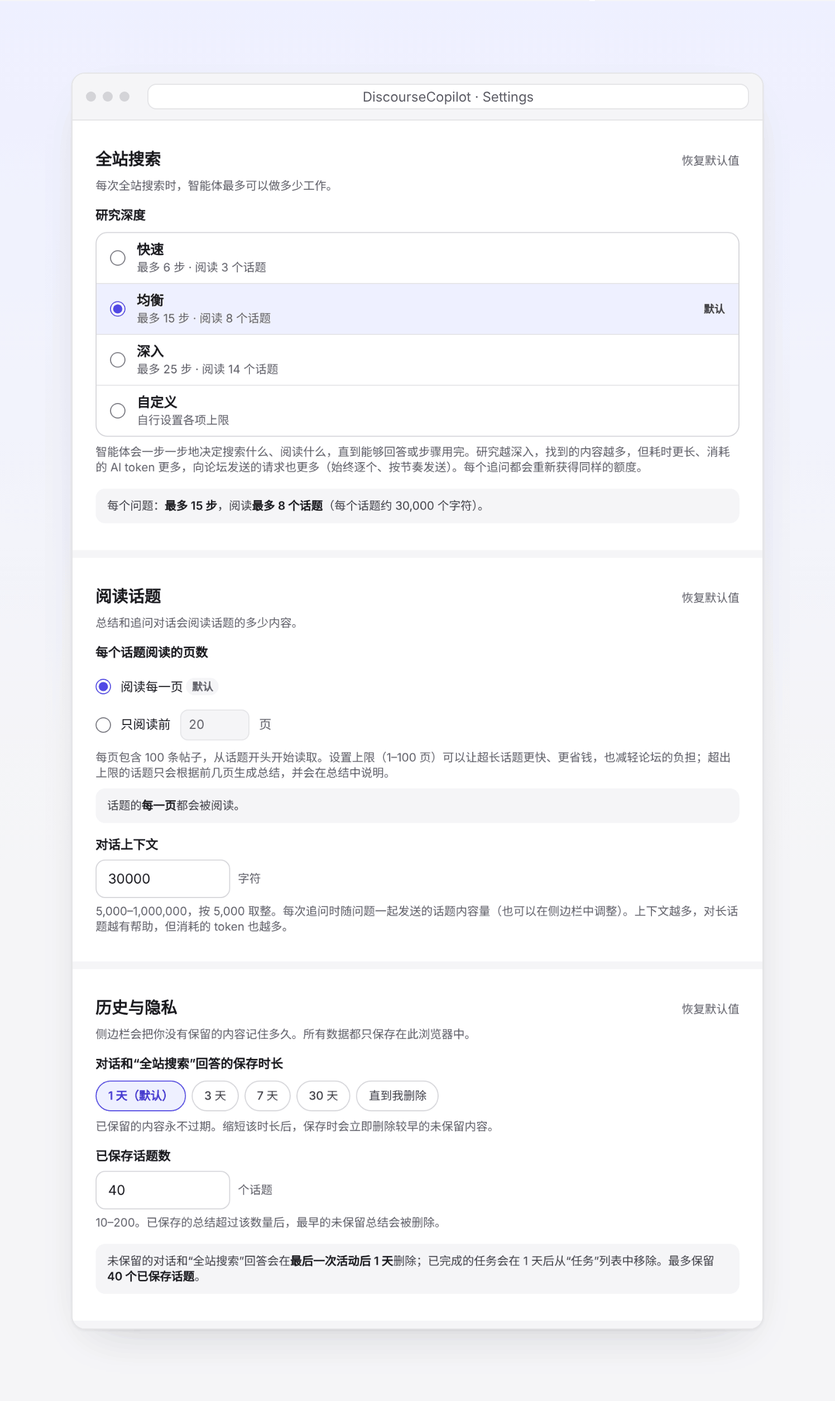
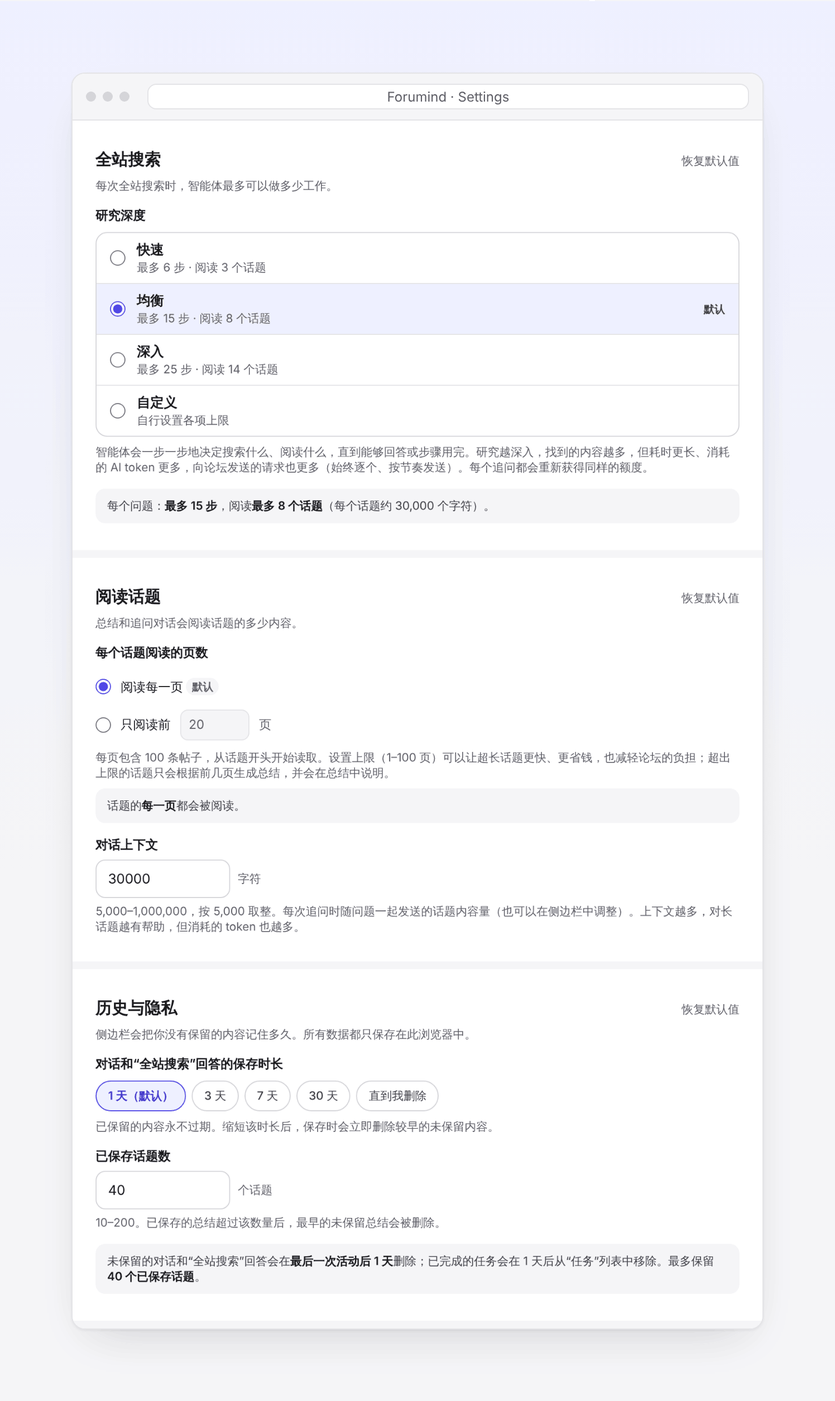
Rename to Forumind in the docs and READMEs
Works-with now lists Discourse, WordPress and Reddit; the READMEs say
formerly DiscourseCopilot; the release zip is forumind-<version>.zip.

diff --git a/README.md b/README.md
@@ -1,16 +1,18 @@
 <h1 align="center">
   <picture>
-    <source media="(prefers-color-scheme: dark)" srcset="assets/brand/wordmark/discoursecopilot-wordmark-horizontal-on-dark.svg">
-    <img src="assets/brand/wordmark/discoursecopilot-wordmark-horizontal-on-light.svg" alt="DiscourseCopilot" width="440">
+    <source media="(prefers-color-scheme: dark)" srcset="assets/brand/wordmark/forumind-wordmark-horizontal-on-dark.svg">
+    <img src="assets/brand/wordmark/forumind-wordmark-horizontal-on-light.svg" alt="Forumind" width="440">
   </picture>
 </h1>
 
-<h3 align="center">Catch up on any Discourse forum in seconds.</h3>
+<h3 align="center">Your AI assistant for the comment section</h3>
+
+<p align="center"><i>Forumind (formerly DiscourseCopilot)</i></p>
 
 <p align="center"><b>English</b> · <a href="README.zh-CN.md">简体中文</a> · <a href="README.zh-TW.md">繁體中文</a></p>
 
 <p align="center">
-  Summarize long topics, ask follow-up questions, and let AI search the whole forum for you, with links to the posts it used.
+  Summarize long discussions, ask follow-up questions, and let AI search the whole forum for you, with links to the posts it used. Works on Discourse forums, WordPress blog comments and Reddit threads.
 </p>
 
 <p align="center">
@@ -30,20 +32,30 @@
 
 <p align="center">
   <a href="https://github.com/kccarlos/DiscourseCopilot"><b>⭐ Star on GitHub</b></a>
-  to follow new releases. It is free, and it helps other forum readers find DiscourseCopilot.
+  to follow new releases. It is free, and it helps other forum readers find Forumind.
 </p>
 
-![DiscourseCopilot in action: summarizing a Discourse topic, asking a follow-up, and asking the whole forum for an answer with sources](docs/screenshots/demo.gif)
+![Forumind in action: summarizing a Discourse topic, asking a follow-up, and asking the whole forum for an answer with sources](docs/screenshots/demo.gif)
 
-DiscourseCopilot is a free, open-source Chrome extension. It opens in your browser's side panel next to a forum built on Discourse and reads it with your own login. You bring your own AI (a provider's API key, or a model on your own computer), and **it has no servers, accounts, or analytics of its own**.
+Forumind is a free, open-source Chrome extension. It opens in your browser's side panel next to a forum built on Discourse, a WordPress site (like Doctor of Credit) or a Reddit post and reads it with your own login. You bring your own AI (a provider's API key, or a model on your own computer), and **it has no servers, accounts, or analytics of its own**.
 
 ## Works with
+
+### Discourse forums
 
 Any forum built on [Discourse](https://www.discourse.org), on any domain, including private and login-only communities. Some well-known Discourse forums it works with:
 
 [Discourse Meta](https://meta.discourse.org), [OpenAI Developer Community](https://community.openai.com), [Cursor Forum](https://forum.cursor.com), [Hugging Face Forums](https://discuss.huggingface.co), [PyTorch Forums](https://discuss.pytorch.org), [Python Discourse](https://discuss.python.org), [Rust Users Forum](https://users.rust-lang.org), [Swift Forums](https://forums.swift.org), [Julia Discourse](https://discourse.julialang.org), [Obsidian Forum](https://forum.obsidian.md), [Home Assistant Community](https://community.home-assistant.io), [Docker Community Forums](https://forums.docker.com), [Let's Encrypt Community](https://community.letsencrypt.org), [freeCodeCamp Forum](https://forum.freecodecamp.org), [Godot Forum](https://forum.godotengine.org), [Unity Discussions](https://discussions.unity.com), [Elastic Discuss](https://discuss.elastic.co), [n8n Community](https://community.n8n.io), [Fly.io Community](https://community.fly.io), [Level1Techs Forums](https://forum.level1techs.com), [Ethereum Research](https://ethresear.ch), [US Card Forum (美卡论坛)](https://www.uscardforum.com), [LINUX DO](https://linux.do), and thousands more.
 
-Not sure whether a forum runs Discourse? Open it and click the DiscourseCopilot icon: the side panel tells you. These forums are listed only as examples; DiscourseCopilot is not affiliated with them. Each forum's own rules still apply, and a forum with strict bot checks can block some requests (see the [FAQ](docs/faq.md#does-it-work-on-every-discourse-forum-including-ones-where-i-have-to-log-in)).
+### WordPress sites
+
+WordPress sites that use WordPress's native comments and leave the public REST API open. Verified working: [Doctor of Credit](https://www.doctorofcredit.com), [美卡指南 US Credit Card Guide](https://www.uscreditcardguide.com), [Frequent Miler](https://frequentmiler.com), [View from the Wing](https://viewfromthewing.com), [One Mile at a Time](https://onemileatatime.com), [Miles to Memories](https://milestomemories.com), [9to5Mac](https://9to5mac.com). Sites whose comments come from a third-party system (Disqus and the like) or that close their REST API, such as The Points Guy or TechCrunch, aren't supported.
+
+### Reddit
+
+Reddit posts with all their comments, while you're signed in to Reddit. Ask the forum searches within a subreddit.
+
+Not sure whether a site is supported? Open it and click the Forumind icon: the side panel tells you. The sites above are listed only as examples; Forumind is not affiliated with them. Each forum's own rules still apply, and a forum with strict bot checks can block some requests (see the [FAQ](docs/faq.md#does-it-work-on-every-discourse-forum-including-ones-where-i-have-to-log-in)).
 
 ## Why you'll like it
 
@@ -100,19 +112,19 @@ Not sure whether a forum runs Discourse? Open it and click the DiscourseCopilot 
 ## Get started in 3 steps
 
 **1. Install the extension.**
-Open [DiscourseCopilot in the Chrome Web Store](https://chromewebstore.google.com/detail/discoursecopilot/dpngnaiiofobfjleabbhnfmdflddnhac) and click **Add to Chrome**, or [Edge Add-ons](https://microsoftedge.microsoft.com/addons/detail/cjbpgigbkfdcgdmlpifklpoklpnbkhmp) in Microsoft Edge. Pin **DiscourseCopilot** from the puzzle-piece icon in the toolbar. (Store versions arrive after review; for the newest one right away, [install from GitHub](docs/guide.md#install-the-newest-version-from-github).)
+Open [Forumind in the Chrome Web Store](https://chromewebstore.google.com/detail/discoursecopilot/dpngnaiiofobfjleabbhnfmdflddnhac) and click **Add to Chrome**, or [Edge Add-ons](https://microsoftedge.microsoft.com/addons/detail/cjbpgigbkfdcgdmlpifklpoklpnbkhmp) in Microsoft Edge. Pin **Forumind** from the puzzle-piece icon in the toolbar. (Store versions arrive after review; for the newest one right away, [install from GitHub](docs/guide.md#install-the-newest-version-from-github).)
 
 **2. Connect an AI provider.**
-Click the DiscourseCopilot icon to open the side panel, pick a provider, paste your API key, and click **Test & save**; a fast, low-cost model is picked for you. **No API key?** [Google AI Studio](https://aistudio.google.com/apikey) gives you a free Gemini key in a minute. See [Choosing an AI provider](docs/guide.md#choosing-an-ai-provider).
+Click the Forumind icon to open the side panel, pick a provider, paste your API key, and click **Test & save**; a fast, low-cost model is picked for you. **No API key?** [Google AI Studio](https://aistudio.google.com/apikey) gives you a free Gemini key in a minute. See [Choosing an AI provider](docs/guide.md#choosing-an-ai-provider).
 
 **3. Open a forum topic, allow access, then Create summary.**
-Open any Discourse topic (log in first if the forum needs it) and click the DiscourseCopilot icon. The first time, click **Allow access** and choose **Allow** when Chrome asks; each forum asks only once. Then click **Create summary**, and ask follow-ups in the box at the bottom.
+Open any Discourse topic (log in first if the forum needs it) and click the Forumind icon. The first time, click **Allow access** and choose **Allow** when Chrome asks; each forum asks only once. Then click **Create summary**, and ask follow-ups in the box at the bottom.
 
-<img src="docs/screenshots/feature-allow-access.png" alt="The side panel asking to allow DiscourseCopilot on a forum, with three short steps and an Allow access button" width="420">
+<img src="docs/screenshots/feature-allow-access.png" alt="The side panel asking to allow Forumind on a forum, with three short steps and an Allow access button" width="420">
 
 ## Privacy first
 
-- **No analytics, no tracking, no accounts, no DiscourseCopilot servers.** Nothing is sent to the developer, because there is nowhere to send it.
+- **No analytics, no tracking, no accounts, no Forumind servers.** Nothing is sent to the developer, because there is nowhere to send it.
 - **Your data stays in your browser.** Settings, API keys, and your saved summaries, chats, and answers are stored on your computer only.
 - **Only two kinds of network calls:** the forums you allow (one forum at a time, with your login there), and the AI provider you choose, with your own key. **With a local model (Ollama or LM Studio), nothing leaves your computer.**
 
@@ -134,4 +146,4 @@ The details are in [Privacy in plain words](docs/guide.md#privacy-in-plain-words
 
 Apache License 2.0. See [LICENSE](LICENSE). Made by [kccarlos](https://github.com/kccarlos).
 
-If DiscourseCopilot saves you time, a [⭐ star on GitHub](https://github.com/kccarlos/DiscourseCopilot) is a friendly way to say thanks. It helps other forum readers find the extension.
+If Forumind saves you time, a [⭐ star on GitHub](https://github.com/kccarlos/DiscourseCopilot) is a friendly way to say thanks. It helps other forum readers find the extension.

diff --git a/docs/faq.md b/docs/faq.md
@@ -1,35 +1,35 @@
-# DiscourseCopilot FAQ
+# Forumind FAQ
 
 **English** · [简体中文](zh-CN/faq.md) · [繁體中文](zh-TW/faq.md)
 
 Back to the [README](../README.md) · How everything works: the [guide](guide.md).
 
 ### Does it work on every Discourse forum, including ones where I have to log in?
-It works on Discourse forums in general, but a forum's own settings still apply. DiscourseCopilot reads a forum the same way your browser does, using your login, so if you're logged in it can read what you can read. Some forums restrict search or reading for certain users, limit how fast they can be read, or show a check that automated requests can't pass; there, a summary or answer can be incomplete or fail. If the forum asks you to log in or pass a check, do that on the forum in a normal tab. For **Ask the forum**, the search pauses and waits: click **Continue** when you're done. For a summary, just click **Create summary** again.
+It works on Discourse forums in general, but a forum's own settings still apply. Forumind reads a forum the same way your browser does, using your login, so if you're logged in it can read what you can read. Some forums restrict search or reading for certain users, limit how fast they can be read, or show a check that automated requests can't pass; there, a summary or answer can be incomplete or fail. If the forum asks you to log in or pass a check, do that on the forum in a normal tab. For **Ask the forum**, the search pauses and waits: click **Continue** when you're done. For a summary, just click **Create summary** again.
 
 ### Why does it ask for permission per forum?
-Discourse forums live on thousands of different websites, so DiscourseCopilot can't know them in advance. Instead of asking to "read and change all your data on all websites" when you install it, it asks for one forum at a time, the first time you use that forum. That access lets it read topics and search the forum in the background (even after you switch tabs) using your login there. You can see and remove every forum you allowed in **Settings → Forum access**; removing access doesn't delete your saved summaries or answers.
+Discourse forums live on thousands of different websites, so Forumind can't know them in advance. Instead of asking to "read and change all your data on all websites" when you install it, it asks for one forum at a time, the first time you use that forum. That access lets it read topics and search the forum in the background (even after you switch tabs) using your login there. You can see and remove every forum you allowed in **Settings → Forum access**; removing access doesn't delete your saved summaries or answers.
 
 ### The side panel says "Page not checked yet".
-Chrome only lets DiscourseCopilot see forums you've allowed or pages where you clicked its icon. Click the DiscourseCopilot icon in the toolbar and the side panel checks the page. If it's a Discourse forum, you'll see **Allow DiscourseCopilot on *forum name***: click **Allow access** and choose **Allow** in Chrome's prompt. Tip: pin DiscourseCopilot from the puzzle-piece menu so the icon is always there.
+Chrome only lets Forumind see forums you've allowed or pages where you clicked its icon. Click the Forumind icon in the toolbar and the side panel checks the page. If it's a Discourse forum, you'll see **Allow Forumind on *forum name***: click **Allow access** and choose **Allow** in Chrome's prompt. Tip: pin Forumind from the puzzle-piece menu so the icon is always there.
 
 ### I updated from an older version and the forum asks again.
 Version 2.1 switched from access to every website to access per forum, so forums you used before need one click on **Allow access**. Your saved summaries and answers are still there.
 
 ### I see a "rate limit" message. What now?
-There are two kinds. If the *forum* asks DiscourseCopilot to slow down, the side panel shows "Forum asked us to slow down" and tries again on its own after a short wait, so you don't need to do anything. If your *AI provider* is limiting you, wait a minute and try again, and check your plan and usage with your provider. If a free tier keeps hitting its limit, switch to another model in the question box at the bottom of the side panel (save a few in **Settings → Favorite models**).
+There are two kinds. If the *forum* asks Forumind to slow down, the side panel shows "Forum asked us to slow down" and tries again on its own after a short wait, so you don't need to do anything. If your *AI provider* is limiting you, wait a minute and try again, and check your plan and usage with your provider. If a free tier keeps hitting its limit, switch to another model in the question box at the bottom of the side panel (save a few in **Settings → Favorite models**).
 
 ### "Ask the forum" is greyed out, or the side panel doesn't recognize the forum.
-Click the DiscourseCopilot icon in the toolbar while the forum is open, and click **Allow access** if the side panel asks (then choose **Allow** in Chrome's prompt). Also make sure you're on a Discourse forum (many say "Powered by Discourse" at the bottom). If you allowed access from the **Is this a Discourse forum?** card on a site that isn't one, remove it in **Settings → Forum access**.
+Click the Forumind icon in the toolbar while the forum is open, and click **Allow access** if the side panel asks (then choose **Allow** in Chrome's prompt). Also make sure you're on a Discourse forum (many say "Powered by Discourse" at the bottom). If you allowed access from the **Is this a Discourse forum?** card on a site that isn't one, remove it in **Settings → Forum access**.
 
 ### My summary says "Page limit reached" or "first 1,999 of 2,430 replies".
 You've set a limit on **Pages read per topic**, so a longer topic is summarized from its first pages. To include more, choose **Read every page** (or a higher limit) in Settings, then click **Check for new replies**. It will take longer and cost a bit more. By default there is no limit. On the rare forum that doesn't report a topic's length, reading stops after 100 pages (10,000 posts) as a safety net.
 
-### How do I hide the DiscourseCopilot button on forum pages?
-Open Settings, scroll to **Forum access**, and turn off **Show the DiscourseCopilot button on forum pages**, then click **Save Settings**. The button goes away on open forum tabs right away. The toolbar icon still opens the side panel.
+### How do I hide the Forumind button on forum pages?
+Open Settings, scroll to **Forum access**, and turn off **Show the Forumind button on forum pages**, then click **Save Settings**. The button goes away on open forum tabs right away. The toolbar icon still opens the side panel.
 
 ### Ollama says "refused the connection (403)".
-DiscourseCopilot removes the `Origin` header from its own requests to `localhost`, `127.0.0.1` and any local server address you allowed, which is what lets a default Ollama install accept it. Web pages are not affected, so Ollama still refuses them. If you still see a 403, update Ollama and reload the extension; as a fallback, start Ollama with `OLLAMA_ORIGINS=chrome-extension://*`.
+Forumind removes the `Origin` header from its own requests to `localhost`, `127.0.0.1` and any local server address you allowed, which is what lets a default Ollama install accept it. Web pages are not affected, so Ollama still refuses them. If you still see a 403, update Ollama and reload the extension; as a fallback, start Ollama with `OLLAMA_ORIGINS=chrome-extension://*`.
 
 ### What gets sent, and to whom?
 Only the forum content needed for your request and your question, sent to the AI provider you set up (or to your local model server). Nothing is sent to us. The forum sees requests for its topic and search data, made from your browser with your login, the same kind your browser makes when you read it, so forum admins may see them in their logs. See [Privacy in plain words](guide.md#privacy-in-plain-words) and the [privacy policy](../PRIVACY.md).

diff --git a/PRIVACY.md b/PRIVACY.md
@@ -1,18 +1,18 @@
-# Privacy Policy for DiscourseCopilot
+# Privacy Policy for Forumind
 
 **Last Updated:** October 3, 2026
 
 ## Overview
 
-DiscourseCopilot is a browser extension that summarizes and answers questions about discussions on Discourse forums you visit, using an AI provider you configure. It is made for Discourse forums (for example community.openai.com or meta.discourse.org). This policy explains what data the extension handles and where it goes.
+Forumind is a browser extension that summarizes and answers questions about discussions on Discourse forums you visit, using an AI provider you configure. It is made for Discourse forums (for example community.openai.com or meta.discourse.org). This policy explains what data the extension handles and where it goes.
 
 ## Permissions and site access
 
 Discourse forums are hosted on arbitrary domains, so the extension cannot list them in advance. Instead of asking for access to all websites, it asks for access **one forum at a time**, when you choose **Allow access** in the side panel. Chrome shows its own prompt, and nothing is read from a forum before you allow it.
 
-- **Forums you enable** (optional host permission, per forum): the extension reads topics and search results from that forum, using your existing browser session there (so login-required forums work when you are logged in). A small content script runs on that forum's pages to detect the topic you are viewing and show the in-page DiscourseCopilot button. You can see and remove every enabled forum under **Settings → Forum access**; removing access keeps your saved summaries and answers.
+- **Forums you enable** (optional host permission, per forum): the extension reads topics and search results from that forum, using your existing browser session there (so login-required forums work when you are logged in). A small content script runs on that forum's pages to detect the topic you are viewing and show the in-page Forumind button. You can see and remove every enabled forum under **Settings → Forum access**; removing access keeps your saved summaries and answers.
 - **AI provider hosts** (requested at install): the API addresses of the supported providers (OpenRouter, OpenAI, Anthropic, Groq, Google Gemini, xAI, DeepSeek) and `localhost` / `127.0.0.1` for Ollama and LM Studio. They are used only to send your requests to the provider you configured, and to read that provider's list of available models. A local model server on another computer is added (optional host permission for that one address) only when you enter its address and allow it.
-- **Checking the current page** (`activeTab` and `scripting`): when you click the DiscourseCopilot toolbar icon, the extension may look once at that tab to see whether it is a Discourse forum (the `generator` meta tag, the `discourse-base-uri` meta tag, or Discourse's setup element) and read its address and title. This happens only after your click and only for that tab. The result is not sent anywhere; the only thing remembered is that you clicked in that tab, kept in session storage (cleared when the browser closes).
+- **Checking the current page** (`activeTab` and `scripting`): when you click the Forumind toolbar icon, the extension may look once at that tab to see whether it is a Discourse forum (the `generator` meta tag, the `discourse-base-uri` meta tag, or Discourse's setup element) and read its address and title. This happens only after your click and only for that tab. The result is not sent anywhere; the only thing remembered is that you clicked in that tab, kept in session storage (cleared when the browser closes).
 - **Local model servers and request headers** (`declarativeNetRequestWithHostAccess`): Ollama refuses requests that carry a browser extension's `Origin` header. The extension therefore removes that one header from its own requests to `localhost`, `127.0.0.1` and a local model server address you entered and allowed. It changes nothing else, never touches requests from web pages or to any other address, and sends no additional data anywhere.
 - **Other permissions**: `storage` (settings on your device), `sidePanel` (the side panel), `alarms` (keeps background tasks running while you browse).
 - The extension does not read forums you have not enabled, and it cannot see which websites you visit. Two small things involve the page you are on: the one-time check described above (after you click the toolbar icon), and the side panel's forum bar, which loads that forum's own icon (`/favicon.ico`) directly from the forum, as any web page would; it is requested without a referrer and can happen before you allow access. Links to AI provider sites (for example "Get a key") open only when you click them.
@@ -24,7 +24,7 @@ Discourse forums are hosted on arbitrary domains, so the extension cannot list t
 - **Follow-up chat and Agent answers**: Recent questions, answers, search queries, and source references.
 - **Task status**: Queued, running, completed, failed, and cancelled task metadata so work can be restored and managed.
 - **API keys and settings**: Your AI provider credentials, model choices, favorite models, custom instructions, response language, and other preferences (research depth, pages read per topic, chat context, history settings), stored in Chrome local storage. Chrome does not encrypt this storage, so anyone who can use your Chrome profile on your computer could read your keys; remove them in Settings (or uninstall the extension) if you no longer want them there.
-- **Rating reminder**: How many summaries have completed (counted up to 5) and when the one-time "Enjoying DiscourseCopilot?" card was shown or closed, stored in Chrome local storage so the card appears only once. It never leaves your browser.
+- **Rating reminder**: How many summaries have completed (counted up to 5) and when the one-time "Enjoying Forumind?" card was shown or closed, stored in Chrome local storage so the card appears only once. It never leaves your browser.
 - **Model lists**: The list of models your provider offers, kept for about 10 minutes in Chrome session storage (cleared when the browser closes) so the model field doesn't ask again on every keystroke. It is stored under a one-way hash of your key, never the key itself.
 
 ### What the extension fetches from a forum
@@ -99,4 +99,4 @@ For questions about this policy or data handling, open an issue on the project's
 
 ## Summary
 
-**In simple terms**: DiscourseCopilot only works on Discourse forums you enable, reads topics from the forum you are on using your own session, stores everything locally, and sends forum content only to the AI provider you choose. It collects no personal data and does no tracking.
+**In simple terms**: Forumind only works on Discourse forums you enable, reads topics from the forum you are on using your own session, stores everything locally, and sends forum content only to the AI provider you choose. It collects no personal data and does no tracking.

diff --git a/DEVELOPMENT.md b/DEVELOPMENT.md
@@ -1,4 +1,4 @@
-# Developing DiscourseCopilot
+# Developing Forumind
 
 For what the extension does and how to install a release, see [README.md](README.md). What changed in each version is in [CHANGELOG.md](CHANGELOG.md).
 
@@ -232,8 +232,8 @@ The manifest asks only for the AI providers' API hosts and `localhost`/`127.0.0.
   page re-checked ──▶ content script answers ──▶ normal view
 ```
 
-- **Page guidance.** `derivePageGuidance()` (`page-guidance.mjs`, pure and unit-tested) maps the page context to one state and one card: *Check this page* (hidden page: click the toolbar icon), *This page isn't a Discourse forum* (two example forums), *Allow DiscourseCopilot on {forum}* (3-step guide + **Allow access to {host}**), *Is this a Discourse forum?* (a `/t/…/id` URL that couldn't be probed), *You're on {forum}* (hero with **Ask the forum** only) and the normal topic view. `#topicView[data-guidance]` lets the stylesheet hide the hero and the welcome panel outside a topic. Provider setup stays first: with both setup and access pending, a "Get started" checklist shows and the access card waits as step 2. The card heading is announced (polite) when the state changes.
-- **Gating.** `TaskService.enqueue()` refuses a forum without access (`FORUM_ACCESS_NOT_GRANTED`, "Allow DiscourseCopilot on {host} in the side panel, then try again"; `respondAsync` passes the `code` through). Executors check again before fetching, and a failed fetch on a forum whose access is now gone becomes the same error. Summary/chat tasks fail with it; Agent tasks wait (`WAITING_USER_ACTION`, "Waiting for forum access") and the panel's **Allow access to {host} & continue** requests access, then resumes. Continue and Retry always request access first (no prompt when already granted).
+- **Page guidance.** `derivePageGuidance()` (`page-guidance.mjs`, pure and unit-tested) maps the page context to one state and one card: *Check this page* (hidden page: click the toolbar icon), *This page isn't a Discourse forum* (two example forums), *Allow Forumind on {forum}* (3-step guide + **Allow access to {host}**), *Is this a Discourse forum?* (a `/t/…/id` URL that couldn't be probed), *You're on {forum}* (hero with **Ask the forum** only) and the normal topic view. `#topicView[data-guidance]` lets the stylesheet hide the hero and the welcome panel outside a topic. Provider setup stays first: with both setup and access pending, a "Get started" checklist shows and the access card waits as step 2. The card heading is announced (polite) when the state changes.
+- **Gating.** `TaskService.enqueue()` refuses a forum without access (`FORUM_ACCESS_NOT_GRANTED`, "Allow Forumind on {host} in the side panel, then try again"; `respondAsync` passes the `code` through). Executors check again before fetching, and a failed fetch on a forum whose access is now gone becomes the same error. Summary/chat tasks fail with it; Agent tasks wait (`WAITING_USER_ACTION`, "Waiting for forum access") and the panel's **Allow access to {host} & continue** requests access, then resumes. Continue and Retry always request access first (no prompt when already granted).
 - **Registration** is re-synced whenever the worker starts (and on `runtime.onStartup`, `onInstalled` and `permissions.onAdded/onRemoved`), serialized because `registerContentScripts` rejects a duplicate ID. On update, any `https://*/*`/`http://*/*` grant carried over from 2.0's `<all_urls>` is removed (nothing in 2.1 requests wildcards), so every forum is enabled explicitly.
 - **"Checked" tabs.** A toolbar click records the tab ID in `storage.session` (`actionClickedTabs`) so a page that stays hidden afterwards (new tab page, `chrome://`) reads as "Not a Discourse forum" rather than "Page not checked yet". The panel drops the record when the tab starts loading another page (activeTab ends on a cross-site navigation); with the panel closed during that navigation the record can go stale until the next click. `content.js` ignores a second injection into a page that already has a live instance, and replaces an instance orphaned by an extension reload.
 - **What the panel can see.** Without `tabs`, `tab.url`/`title` exist only for enabled forums, provider hosts, and tabs where the icon was clicked (activeTab, until the tab navigates to another site). A content script already running keeps answering after access is removed; the panel checks `permissions.contains` and shows the Allow access card again. Opening a forum link from the panel still works (`tabs.create/update` need no permission), but an existing tab on a forum that isn't enabled can't be found and reused.
@@ -455,7 +455,7 @@ Before pushing, `pnpm test && pnpm check && pnpm build` covers everything except
 
 `.github/workflows/release.yml` then runs on the tag:
 
-1. **release** job: installs, fails unless the tag equals the manifest version (and both version files agree), runs `pnpm test` and `pnpm build`, zips the contents of `dist/` as `discourse-copilot-<version>.zip`, and creates a GitHub Release for the tag with the zip. Its notes come from the version's CHANGELOG.md section plus an install footer and changelog links (`tools/release-notes.mjs`).
+1. **release** job: installs, fails unless the tag equals the manifest version (and both version files agree), runs `pnpm test` and `pnpm build`, zips the contents of `dist/` as `forumind-<version>.zip`, and creates a GitHub Release for the tag with the zip. Its notes come from the version's CHANGELOG.md section plus an install footer and changelog links (`tools/release-notes.mjs`).
 2. **chrome-web-store** job: signs in to Google Cloud through Workload Identity Federation (below), uploads the zip with the [Chrome Web Store API v2](https://developer.chrome.com/docs/webstore/api) and waits until the store has processed it. Then:
    - `CWS_AUTO_PUBLISH` = `true`: submits the item for review (`publishType: DEFAULT_PUBLISH`, so it goes live automatically once approved).
    - anything else (the current setting is `false`): leaves the upload as a draft. Open the [developer dashboard](https://chrome.google.com/webstore/devconsole), check the draft (listing text, see [store-assets/LISTING.md](store-assets/LISTING.md)) and click **Submit for review**.

diff --git a/docs/guide.md b/docs/guide.md
@@ -1,4 +1,4 @@
-# DiscourseCopilot guide
+# Forumind guide
 
 **English** · [简体中文](zh-CN/guide.md) · [繁體中文](zh-TW/guide.md)
 
@@ -15,11 +15,11 @@ The details behind the [README](../README.md): installing from GitHub, Ask the f
 
 New versions reach the Chrome Web Store and Edge Add-ons only after Google and Microsoft review them, which can take anywhere from a few hours to several days. So the store can be a little behind the newest [GitHub Release](https://github.com/kccarlos/DiscourseCopilot/releases/latest). To get it right away:
 
-1. Go to the [Releases page](https://github.com/kccarlos/DiscourseCopilot/releases) and download the latest `discourse-copilot-<version>.zip`.
+1. Go to the [Releases page](https://github.com/kccarlos/DiscourseCopilot/releases) and download the latest `forumind-<version>.zip`.
 2. Unzip it.
 3. Open `chrome://extensions` in Chrome (`edge://extensions` in Edge) and turn on **Developer mode** (top right).
 4. Click **Load unpacked** and choose the unzipped folder.
-5. Click the puzzle-piece icon in the toolbar and pin **DiscourseCopilot**.
+5. Click the puzzle-piece icon in the toolbar and pin **Forumind**.
 
 An unpacked install is not updated automatically. To update it, download the new zip, replace the files in that folder, and click the reload icon on the extension's card in `chrome://extensions`. Chrome may show a "Developer mode" reminder when it starts; that is normal for extensions installed this way. You can switch back to the store version later: the browser keeps it up to date once a release is approved.
 
@@ -42,7 +42,7 @@ The agent reads the forum with your login, so it can also find topics that only 
 
 ## Choosing an AI provider
 
-DiscourseCopilot doesn't come with its own AI. You connect one you already use, or sign up for one.
+Forumind doesn't come with its own AI. You connect one you already use, or sign up for one.
 
 | Provider | What you need | Good to know |
 | --- | --- | --- |
@@ -81,7 +81,7 @@ Open **Settings** from the side panel; it opens inside the panel, so there is no
 - **History & privacy: Keep conversations and Agent answers for.** Chats and answers you haven't kept are removed after **1 day** by default. You can choose 3, 7, or 30 days, or **Until I delete them**. Anything you **Keep** stays.
 - **History & privacy: Saved topics.** Up to 40 topic summaries are remembered by default (10 to 200). Past that, the oldest ones you haven't kept are removed.
 - **Forum access.** Every forum you allowed, with **Remove access**. Your saved summaries and answers stay.
-- **Forum access: Show the DiscourseCopilot button on forum pages.** On by default. Turn it off to hide the floating button on forums; it disappears from open forum tabs as soon as you save, and you can always open the side panel from the toolbar icon.
+- **Forum access: Show the Forumind button on forum pages.** On by default. Turn it off to hide the floating button on forums; it disappears from open forum tabs as soon as you save, and you can always open the side panel from the toolbar icon.
 - **Reset all settings.** Removes every provider, key, model, favorite, custom instructions, and preference after you confirm on the page. Saved summaries and answers are not deleted.
 
 The interface is in English, Simplified Chinese and Traditional Chinese, and follows your browser's language.
@@ -90,7 +90,7 @@ The interface is in English, Simplified Chinese and Traditional Chinese, and fol
 
 - **Your key and history stay in your browser.** Settings, API keys, summaries, chats, and answers are saved on your computer only (in the extension's own storage). Chrome stores them unencrypted, so anyone who can use your Chrome profile on your computer could read them. Remove them in Settings, or by uninstalling the extension.
 - **Forum posts go only to the AI you chose.** When you summarize or ask something, the topic text and your question are sent straight from your browser to your AI provider. Check your provider's privacy policy for what it does with them. With a local model on your own computer, they go nowhere else.
-- **No middleman.** There are no DiscourseCopilot servers, no accounts, and no analytics.
+- **No middleman.** There are no Forumind servers, no accounts, and no analytics.
 - **It only reads forums you enable.** Chrome gives it access to a forum only after you click **Allow access** for that forum, and you can remove access anytime in Settings. When you click the toolbar icon, it takes a one-time look at that page to see whether it is a Discourse forum; that is all it learns about other sites. The side panel also loads the forum icon (`/favicon.ico`) from the forum you are on.
 
 Read the full [privacy policy](../PRIVACY.md).

diff --git a/CHANGELOG.md b/CHANGELOG.md
@@ -1,8 +1,11 @@
 # Changelog
 
-Notable changes to DiscourseCopilot. The format follows [Keep a Changelog](https://keepachangelog.com/en/1.1.0/), and versions follow [Semantic Versioning](https://semver.org/spec/v2.0.0.html). Each release is published on the [Releases page](https://github.com/kccarlos/DiscourseCopilot/releases) (with the installable zip) and submitted to the [Chrome Web Store](https://chromewebstore.google.com/detail/discoursecopilot/dpngnaiiofobfjleabbhnfmdflddnhac) and [Microsoft Edge Add-ons](https://microsoftedge.microsoft.com/addons/detail/cjbpgigbkfdcgdmlpifklpoklpnbkhmp). Each store offers a version only after its review, which can take from a few hours to several days, so it may lag behind the newest release.
+Notable changes to Forumind (formerly DiscourseCopilot). The format follows [Keep a Changelog](https://keepachangelog.com/en/1.1.0/), and versions follow [Semantic Versioning](https://semver.org/spec/v2.0.0.html). Each release is published on the [Releases page](https://github.com/kccarlos/DiscourseCopilot/releases) (with the installable zip) and submitted to the [Chrome Web Store](https://chromewebstore.google.com/detail/discoursecopilot/dpngnaiiofobfjleabbhnfmdflddnhac) and [Microsoft Edge Add-ons](https://microsoftedge.microsoft.com/addons/detail/cjbpgigbkfdcgdmlpifklpoklpnbkhmp). Each store offers a version only after its review, which can take from a few hours to several days, so it may lag behind the newest release.
 
 ## [Unreleased]
+
+### Changed
+- Renamed to Forumind (formerly DiscourseCopilot). The extension ID, your settings and your saved history stay as they are.
 
 ### Added
 - WordPress posts: summarize a post and its comments, and chat about them, on any WordPress site that leaves its public REST API open (for example doctorofcredit.com). The article is read as the opening post and every comment as a reply, 100 per page; reading it again asks the site only for what could have changed. The Agent works on WordPress too: it searches posts (by keyword, category and date), searches reader comments, lists the newest posts and reads a post with its comments, and its answers cite the posts it read.
